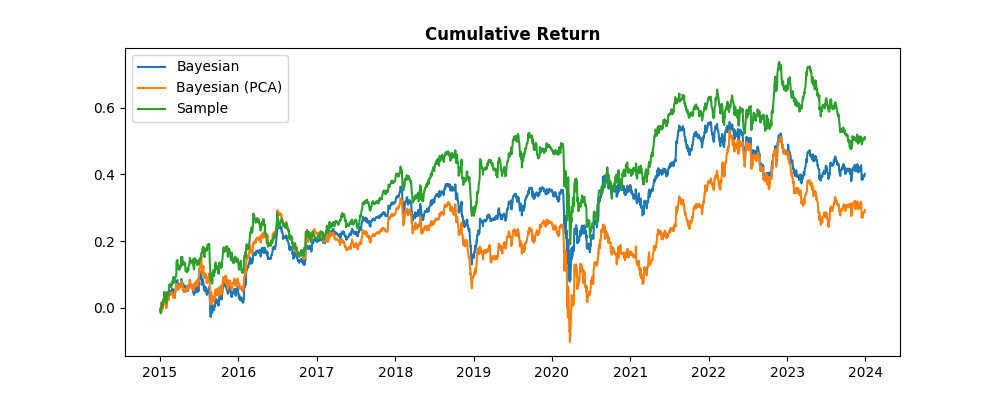
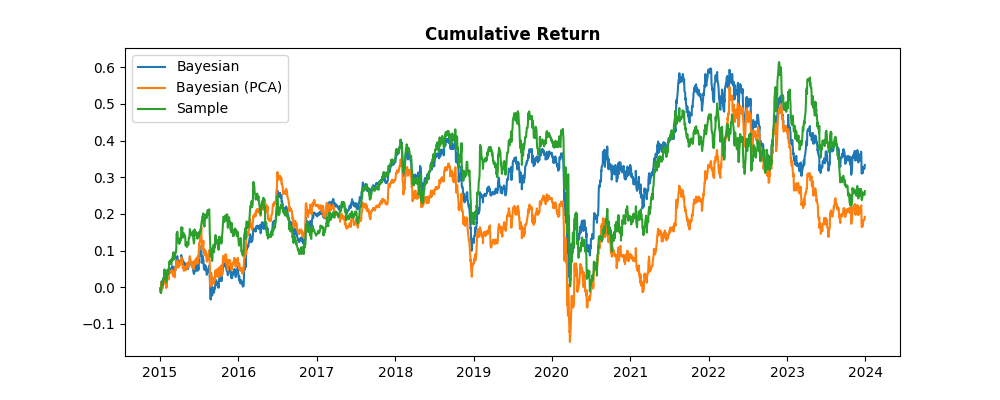
Update plotting methodology

diff --git a/src/main.py b/src/main.py
@@ -7,34 +7,64 @@ from matplotlib import pyplot as plt
 import matplotlib.dates as mdates
 from Weight_Calc import Weight_Calc
 from typing import Literal
+from datetime import datetime, timedelta
+from rich.progress import Progress, TextColumn, BarColumn, TaskProgressColumn, TimeRemainingColumn
 
 
-def diff_tracking(
+def process_date(start_date: datetime | str, end_date: datetime | str, stock_return: pd.DataFrame, sample_size: int):
+    if start_date:
+        if isinstance(start_date, str):
+            start_date = datetime.strptime(start_date, "%Y-%m-%d")
+        while True:
+            try:
+                start = stock_return.index.get_loc(str(start_date.date())) - sample_size
+                start = max(start, 0)
+                break
+            except KeyError:
+                print(f"Data of start date {str(start_date.date())} is not available, adding one day.")
+                start_date = start_date + timedelta(days=1)
+    else:
+        start = 0
+    if end_date:
+        if isinstance(end_date, str):
+            end_date = datetime.strptime(end_date, "%Y-%m-%d")
+        while True:
+            try:
+                end = stock_return.index.get_loc(str(end_date.date())) - sample_size
+                end = min(end, len(stock_return) - sample_size)
+                break
+            except KeyError:
+                print(f"Data of end date {str(end_date.date())} is not available, subtracting one day.")
+                end_date = end_date - timedelta(days=1)
+    else:
+        end = len(stock_return) - sample_size
+    return start, end
+
+
+def tracking_diff(
     stock_return: pd.DataFrame,
-    factor_data: pd.DataFrame,
+    factor_return: pd.DataFrame,
     plot_name: str = "diff_tracking.png",
     stock_slice: int = 1,
-    length=None,
+    start_date: datetime | str = None,
+    end_date: datetime | str = None,
     sample_size=251,
-    rebalance_freq: int = 1,
-    jump: int = 0,
 ):
-    if not length:
-        length = (len(stock_return) - sample_size) // rebalance_freq
+    start, end = process_date(start_date, end_date, stock_return, sample_size)
     y, z, g = [], [], []
-    for i in range(jump, length):
-        time_period = (i * rebalance_freq, sample_size + i * rebalance_freq)
+    for i in range(start, end):
+        time_period = (i, sample_size + i)
         miu, cov_mat, g_star = Bayesian_Posteriors(
-            factor_data.iloc[time_period[0] : time_period[1], :], stock_return.iloc[time_period[0] : time_period[1], ::stock_slice]
+            factor_return.iloc[time_period[0] : time_period[1], :], stock_return.iloc[time_period[0] : time_period[1], ::stock_slice]
         ).posterior_predictive()
         miu_sample = stock_return.iloc[time_period[0] : time_period[1], ::stock_slice].mean()
         cov_mat_sample = stock_return.iloc[time_period[0] : time_period[1], ::stock_slice].cov()
         y.append(sum(abs(miu - miu_sample)))
         z.append(sum(sum(abs(cov_mat - cov_mat_sample.values))))
         g.append(g_star)
-        print("Loop", i + 1, "done.")
+        print(str(stock_return.index[time_period[1]]), "finished.")
 
-    x = pd.to_datetime(factor_data.index[sample_size + jump : sample_size + length * rebalance_freq])
+    x = pd.to_datetime(factor_return.index[sample_size + start : sample_size + end])
     plt.figure(figsize=(10, 8))
     plt.subplot(3, 1, 1)
     plt.plot(x, y)
@@ -64,66 +94,100 @@ def diff_tracking(
 
 def return_compare(
     stock_return: pd.DataFrame,
-    factor_data: pd.DataFrame,
-    smartScheme: Literal["EW", "RP", "MDR", "GMV", "MSR"],
+    stock_data: pd.DataFrame,
+    factor_return: pd.DataFrame,
+    smart_scheme: Literal["EW", "RP", "MDR", "GMV", "MSR"],
+    equal_weight: bool = False,
+    mv_weight: bool = False,
     plot_name: str = "return_compare.png",
     stock_slice: int = 1,
-    start: int = 0,
-    end: int = None,
+    start_date: str = None,
+    end_date: str = None,
     sample_size=251,
-    rebalance_freq: int = 1,
 ):
-    if not end:
-        end = (len(stock_return) - sample_size) // rebalance_freq
+    start, end = process_date(start_date, end_date, stock_return, sample_size)
     return_series, return_series_pca, return_series_sample = [], [], []
-    for i in range(start, end):
-        time_period = (i * rebalance_freq, sample_size + i * rebalance_freq)
-        # Parameters estimated via Bayesian approach (Non-PCA)
-        miu, cov_mat, _ = Bayesian_Posteriors(
-            factor_data.iloc[time_period[0] : time_period[1], :], stock_return.iloc[time_period[0] : time_period[1], ::stock_slice]
-        ).posterior_predictive()
-        beta = Weight_Calc(smartScheme, miu, cov_mat).retrieve_beta()
-        return_series.append(stock_return.iloc[time_period[1], ::stock_slice] @ beta)
-        # Parameters estimated via Bayesian approach (PCA)
-        miu_pca, cov_mat_pca, _ = Bayesian_Posteriors(
-            factor_data.iloc[time_period[0] : time_period[1], :], stock_return.iloc[time_period[0] : time_period[1], ::stock_slice], pca=True
-        ).posterior_predictive()
-        beta_pca = Weight_Calc(smartScheme, miu_pca, cov_mat_pca).retrieve_beta()
-        return_series_pca.append(stock_return.iloc[time_period[1], ::stock_slice] @ beta_pca)
-        # Parameters estimated via Bayesian approach and views (assume future factor returns are known)
-        # if i < end - 1:
-        #     miu_view, cov_mat_view, _ = Bayesian_Posteriors(
-        #         factor_data.iloc[time_period[0] : time_period[1], :],
-        #         stock_return.iloc[time_period[0] : time_period[1], ::stock_slice],
-        #         P="absolute",
-        #         Q=np.array(factor_data.values[time_period[1] : time_period[1] + 1, :][0]),
-        #     ).posterior_predictive()
-        # else:
-        #     miu_view, cov_mat_view, _ = Bayesian_Posteriors(
-        #         factor_data.iloc[time_period[0] : time_period[1], :],
-        #         stock_return.iloc[time_period[0] : time_period[1], ::stock_slice],
-        #     ).posterior_predictive()
-        # beta_view = WeightCalc(smartScheme, miu_view, cov_mat_view).retrieve_beta()
-        # return_series_view.append(stock_return.iloc[time_period[1], ::stock_slice] @ beta_view)
-        # Parameters estimated via sample data
-        miu_sample = stock_return.iloc[time_period[0] : time_period[1], ::stock_slice].mean()
-        cov_mat_sample = stock_return.iloc[time_period[0] : time_period[1], ::stock_slice].cov()
-        beta_sample = Weight_Calc(smartScheme, miu_sample, cov_mat_sample).retrieve_beta()
-        return_series_sample.append(stock_return.iloc[time_period[1], ::stock_slice] @ beta_sample)
-        print("Loop", i + 1, "done.")
+    return_series_ew, return_series_mv = [], []
+    with Progress(
+        TextColumn("[progress.description]{task.description}"),
+        BarColumn(complete_style="red bold", finished_style="green bold"),
+        TaskProgressColumn("[blue bold]{task.percentage:>3.0f}%"),
+        TimeRemainingColumn(compact=True),
+        transient=True,
+    ) as progress:
+        task = progress.add_task("Running", total=end - start)
+        for i in range(start, end):
+            time_period = (i, sample_size + i)
+            # Parameters estimated via Bayesian approach (Non-PCA)
+            miu, cov_mat, _ = Bayesian_Posteriors(
+                factor_return.iloc[time_period[0] : time_period[1], :], stock_return.iloc[time_period[0] : time_period[1], ::stock_slice]
+            ).posterior_predictive()
+            beta = Weight_Calc(smart_scheme, miu, cov_mat).retrieve_beta()
+            return_series.append(stock_return.iloc[time_period[1], ::stock_slice] @ beta)
+
+            # Parameters estimated via Bayesian approach (PCA)
+            miu_pca, cov_mat_pca, _ = Bayesian_Posteriors(
+                factor_return.iloc[time_period[0] : time_period[1], :], stock_return.iloc[time_period[0] : time_period[1], ::stock_slice], pca=True
+            ).posterior_predictive()
+            beta_pca = Weight_Calc(smart_scheme, miu_pca, cov_mat_pca).retrieve_beta()
+            return_series_pca.append(stock_return.iloc[time_period[1], ::stock_slice] @ beta_pca)
+
+            # Parameters estimated via Bayesian approach and views (assume future factor returns are known)
+            # if i < end - 1:
+            #     miu_view, cov_mat_view, _ = Bayesian_Posteriors(
+            #         factor_data.iloc[time_period[0] : time_period[1], :],
+            #         stock_return.iloc[time_period[0] : time_period[1], ::stock_slice],
+            #         P="absolute",
+            #         Q=np.array(factor_data.values[time_period[1], :]),
+            #     ).posterior_predictive()
+            # else:
+            #     miu_view, cov_mat_view, _ = Bayesian_Posteriors(
+            #         factor_data.iloc[time_period[0] : time_period[1], :],
+            #         stock_return.iloc[time_period[0] : time_period[1], ::stock_slice],
+            #     ).posterior_predictive()
+            # beta_view = WeightCalc(smartScheme, miu_view, cov_mat_view).retrieve_beta()
+            # return_series_view.append(stock_return.iloc[time_period[1], ::stock_slice] @ beta_view)
+
+            # Parameters estimated via sample data
+            miu_sample = stock_return.iloc[time_period[0] : time_period[1], ::stock_slice].mean()
+            cov_mat_sample = stock_return.iloc[time_period[0] : time_period[1], ::stock_slice].cov()
+            beta_sample = Weight_Calc(smart_scheme, miu_sample, cov_mat_sample).retrieve_beta()
+            return_series_sample.append(stock_return.iloc[time_period[1], ::stock_slice] @ beta_sample)
+
+            # Equal weight allocation
+            if equal_weight:
+                N = stock_return.iloc[::stock_slice].shape[1]
+                beta_ew = np.ones(N) / N
+                return_series_ew.append(stock_return.iloc[time_period[1], ::stock_slice] @ beta_ew)
+
+            # Market value weight allocation
+            if mv_weight:
+                beta_mv = np.array(1 / stock_data.iloc[time_period[1] - 1, :])
+                return_series_mv.append(stock_return.iloc[time_period[1], ::stock_slice] @ beta_mv)
+
+            print(str(stock_return.index[time_period[1]]), "finished.")
+            progress.update(task, advance=1)
 
     # Calculate cumulative return
     for i in range(1, len(return_series)):
         return_series[i] = (1 + return_series[i - 1]) * (1 + return_series[i]) - 1
         return_series_pca[i] = (1 + return_series_pca[i - 1]) * (1 + return_series_pca[i]) - 1
         return_series_sample[i] = (1 + return_series_sample[i - 1]) * (1 + return_series_sample[i]) - 1
+        if equal_weight:
+            return_series_ew[i] = (1 + return_series_ew[i - 1]) * (1 + return_series_ew[i]) - 1
+        if mv_weight is not None:
+            return_series_mv[i] = (1 + return_series_mv[i - 1]) * (1 + return_series_mv[i]) - 1
 
-    x = pd.to_datetime(factor_data.index[sample_size + start : sample_size + end * rebalance_freq])
+    x = pd.to_datetime(factor_return.index[sample_size + start : sample_size + end])
     plt.figure(figsize=(10, 4))
     plt.plot(x, return_series, label="Bayesian")
     plt.plot(x, return_series_pca, label="Bayesian (PCA)")
     plt.plot(x, return_series_sample, label="Sample")
-    plt.title("Cumulative Return", fontdict={"fontweight": "bold"})
+    if equal_weight:
+        plt.plot(x, return_series_ew, label="Equal Weight")
+    if mv_weight is not None:
+        plt.plot(x, return_series_mv, label="Market Value Weight")
+    plt.title(f"Cumulative Return ({smart_scheme})", fontdict={"fontweight": "bold"})
     ax = plt.gca()
     ax.xaxis.set_major_locator(mdates.YearLocator())
     ax.xaxis.set_major_formatter(mdates.DateFormatter("%Y"))
@@ -132,23 +196,89 @@ def return_compare(
     plt.show()
 
 
+def compare_efficient_fronter(
+    stock_return: pd.DataFrame, factor_return: pd.DataFrame, date: str | datetime, stock_slice: int = 1, sample_size: int = 251
+) -> None:
+    date_index, _ = process_date(date, None, stock_return, sample_size)
+    miu, cov_mat, _ = Bayesian_Posteriors(
+        factor_return.iloc[date_index : date_index + sample_size, :], stock_return.iloc[date_index : date_index + sample_size, ::stock_slice]
+    ).posterior_predictive()
+
+    # Bayesian approach
+    R = miu
+    Sigma = cov_mat
+    One = np.ones(len(R))
+
+    A = R.T @ np.linalg.inv(Sigma) @ R
+    B = R.T @ np.linalg.inv(Sigma) @ One
+    C = One.T @ np.linalg.inv(Sigma) @ One
+
+    mu_p_list = np.arange(1e-3, 1e-3, 1e-5)
+    alpha_list = []
+    sd_list = []
+    for mu_p in mu_p_list:
+        lambda_ = (C * mu_p - B) / (A * C - B**2)
+        gamma = (A - B * mu_p) / (A * C - B**2)
+        alpha = lambda_ * np.linalg.inv(Sigma) @ R + gamma * np.linalg.inv(Sigma) @ One
+        alpha_list.append(alpha)
+        sd = np.sqrt(alpha.T @ Sigma @ alpha)
+        sd_list.append(sd)
+    plt.plot(sd_list, mu_p_list, label="Bayesian")
+    plt.xlabel("$\sigma_p$")
+    plt.ylabel("$\mu_p$")
+    plt.title("Efficient Frontier", fontsize=10)
+
+    # Sample approach
+    R = stock_return.iloc[date_index : date_index + sample_size, ::stock_slice].mean()
+    Sigma = stock_return.iloc[date_index : date_index + sample_size, ::stock_slice].cov()
+    One = np.ones(len(R))
+
+    A = R.T @ np.linalg.inv(Sigma) @ R
+    B = R.T @ np.linalg.inv(Sigma) @ One
+    C = One.T @ np.linalg.inv(Sigma) @ One
+
+    mu_p_list = np.arange(1e-3, 1e-3, 1e-5)
+    alpha_list = []
+    sd_list = []
+    for mu_p in mu_p_list:
+        lambda_ = (C * mu_p - B) / (A * C - B**2)
+        gamma = (A - B * mu_p) / (A * C - B**2)
+        alpha = lambda_ * np.linalg.inv(Sigma) @ R + gamma * np.linalg.inv(Sigma) @ One
+        alpha_list.append(alpha)
+        sd = np.sqrt(alpha.T @ Sigma @ alpha)
+        sd_list.append(sd)
+    plt.plot(sd_list, mu_p_list, label="Sample")
+
+    plt.legend()
+    plt.show()
+
+
 if __name__ == "__main__":
     base_dir = os.path.dirname(os.path.dirname(__file__))
-    # Get stock returns
+    # Get stock universe returns
     # stock_data = pd.read_excel(os.path.join(base_dir, "data/S&P500 Daily Closing Price 2014-2024.xlsx"))
     # Get selected stock returns
     stock_data = pd.read_excel(
         os.path.join(base_dir, "data/Selected Stock Daily Closing Price 2014-2024.xlsx"), sheet_name="Selected Stock 2014-2024"
     )
     stock_data.rename(columns={"Unnamed: 0": "Date"}, inplace=True)
-    stock_data = stock_data.replace(r"^\s*$", np.nan, regex=True).iloc[:2516, :]
-    stock_return = stock_data.set_index("Date").pct_change().iloc[1:, :].dropna(axis=1)
+    stock_data = stock_data.replace(r"^\s*$", np.nan, regex=True).iloc[:2516, :].set_index("Date")
+    stock_return = stock_data.pct_change().iloc[1:, :].dropna(axis=1)
 
     # Get factor data and clean data
-    factor_data = Factor_Data(os.path.join(base_dir, "data/10_Industry_Portfolios_Daily.csv"), skiprows=9, nrows=25690).factor_data
-    common_index = stock_return.index.intersection(factor_data.index)
-    stock_return, factor_data = stock_return.loc[common_index, :], factor_data.loc[common_index, :]
+    factor_return = Factor_Data(os.path.join(base_dir, "data/10_Industry_Portfolios_Daily.csv"), skiprows=9, nrows=25690).factor_data
+    common_index = stock_return.index.intersection(factor_return.index)
+    stock_return, factor_return, stock_data = stock_return.loc[common_index, :], factor_return.loc[common_index, :], stock_data.loc[common_index, :]
     print("Data loading and cleaning finished.")
 
-    # plot_results(stock_return, factor_data, stock_slice=10)
-    return_compare(stock_return, factor_data, smartScheme="MDR", plot_name="return_compare_selected_MDR.png")
+    # tracking_diff(stock_return, factor_data, stock_slice=10)
+    # return_compare(
+    #     stock_return,
+    #     stock_data,
+    #     factor_return,
+    #     smart_scheme="MDR",
+    #     plot_name="return_compare_selected_MDR.png",
+    #     equal_weight=True,
+    #     mv_weight=True,
+    # )
+    compare_efficient_fronter(stock_return, factor_return, "2023-10-10")

diff --git a/src/Bayesian_Posterior.py b/src/Bayesian_Posterior.py
@@ -8,25 +8,25 @@ from typing import Literal
 class Bayesian_Posteriors:
     def __init__(
         self,
-        factor_data: pd.DataFrame,
-        stock_data: pd.DataFrame,
+        factor_return: pd.DataFrame,
+        stock_return: pd.DataFrame,
         pca: bool = False,
         explained_variance_ratio: float = 0.9,
         P: np.ndarray[np.ndarray] | Literal["absolute", "relative"] = None,
         Q: np.ndarray = None,
         c: float = None,
     ):
-        self.factor_data = factor_data.values
-        self.stock_data = stock_data.values
-        self.T = stock_data.shape[0]  # Number of time periods
-        self.M = stock_data.shape[1]  # Number of stocks
+        self.factor_data = factor_return.values
+        self.stock_data = stock_return.values
+        self.T = stock_return.shape[0]  # Number of time periods
+        self.M = stock_return.shape[1]  # Number of stocks
         self.explained_variance_ratio = explained_variance_ratio
         self.P = P
         self.Q = Q
         self.c = c
         if pca:
             # Integrate PCA approach
-            self.F = self.factor_data @ PCA(factor_data, explained_variance_ratio=self.explained_variance_ratio).eigenvectors
+            self.F = self.factor_data @ PCA(factor_return, explained_variance_ratio=self.explained_variance_ratio).eigenvectors
         else:
             self.F = self.factor_data
         self.K = self.F.shape[1]  # Number of factors
@@ -101,7 +101,7 @@ class Bayesian_Posteriors:
                 for i in range(self.K - 1):
                     self.P[i, i + 1] = -1
             if not self.c:
-                self.c = 1 / self.T
+                self.c = np.sqrt(self.T)
             Sigma_n = Lambda_n / self.T / (self.T - self.K)
             miu_f_mean = f_bar + 1 / (self.c + 1) * Sigma_n @ self.P.T @ np.linalg.inv(self.P @ Sigma_n @ self.P.T) @ (self.Q - self.P @ f_bar)
             miu_f_var = (

diff --git a/src/Weight_Calc.py b/src/Weight_Calc.py
@@ -1,4 +1,3 @@
-import pandas as pd
 import numpy as np
 from scipy.optimize import minimize
 from typing import Literal
